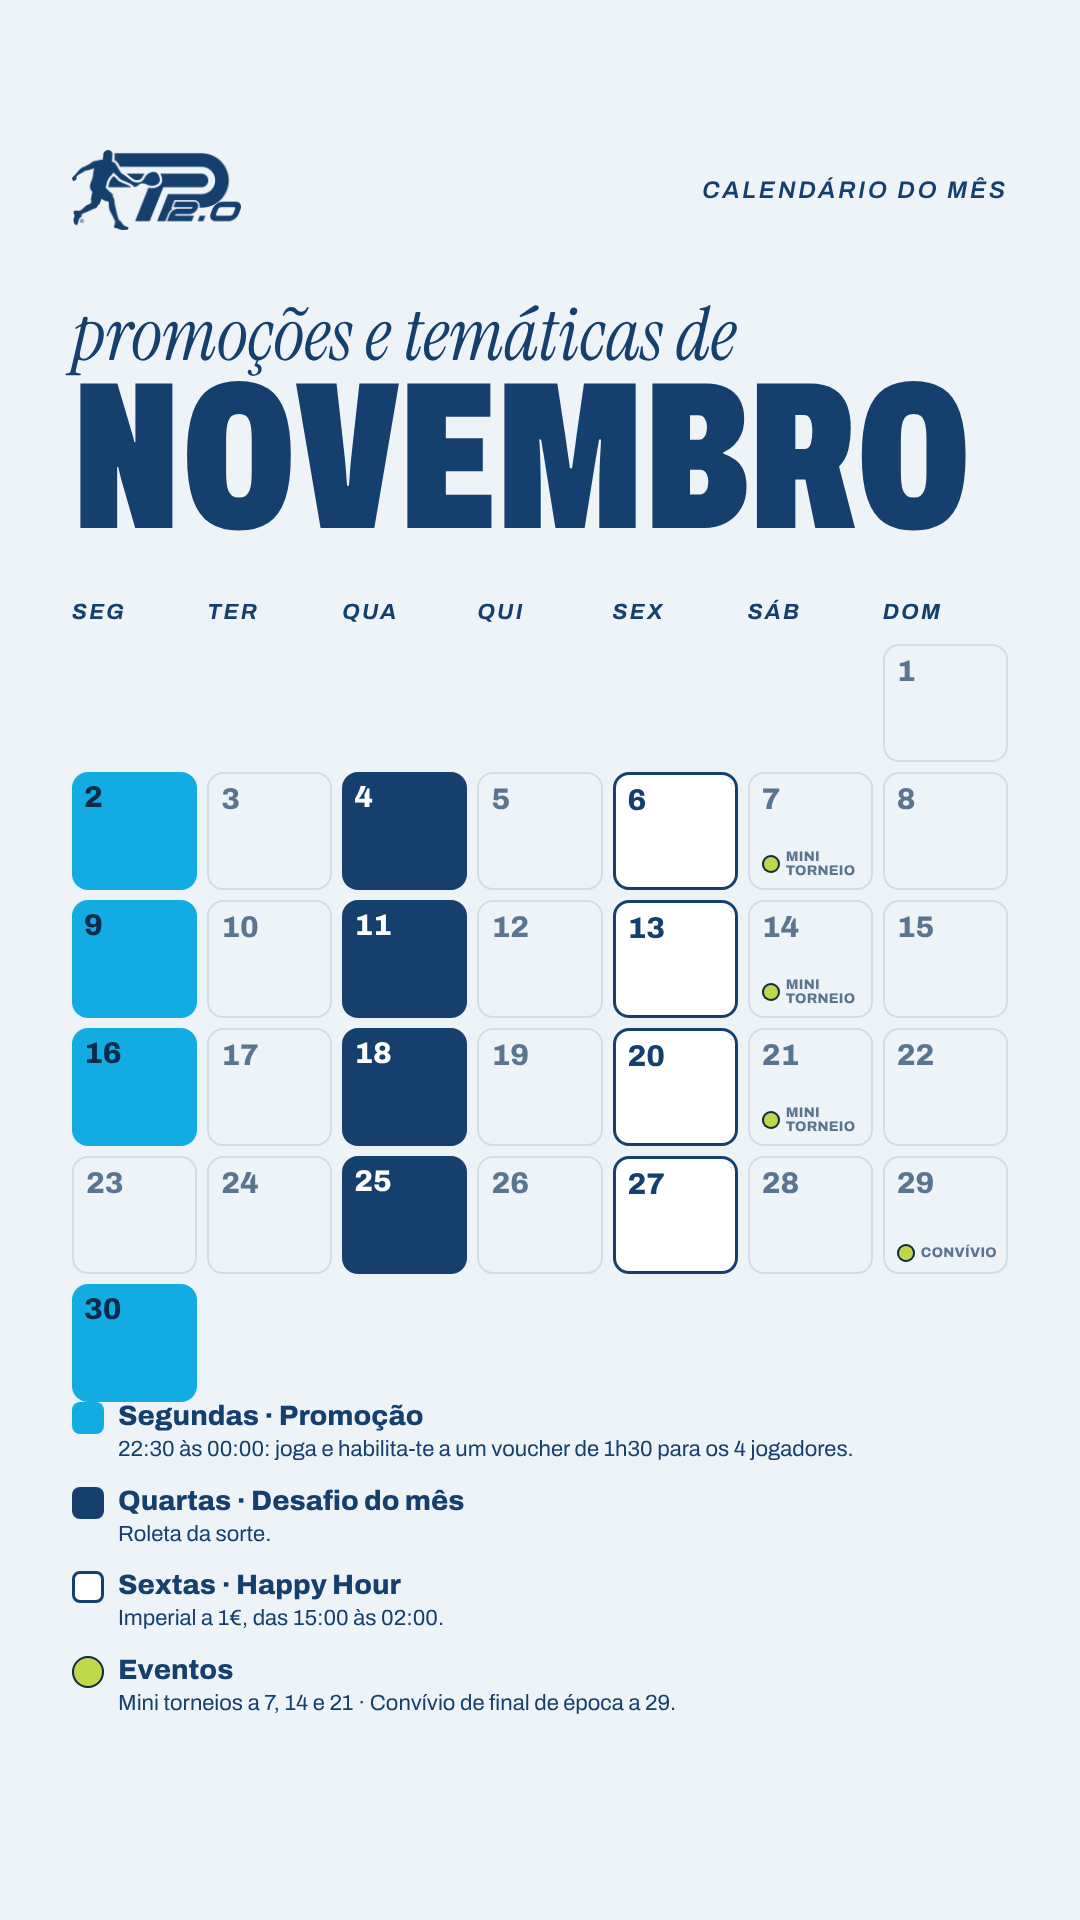
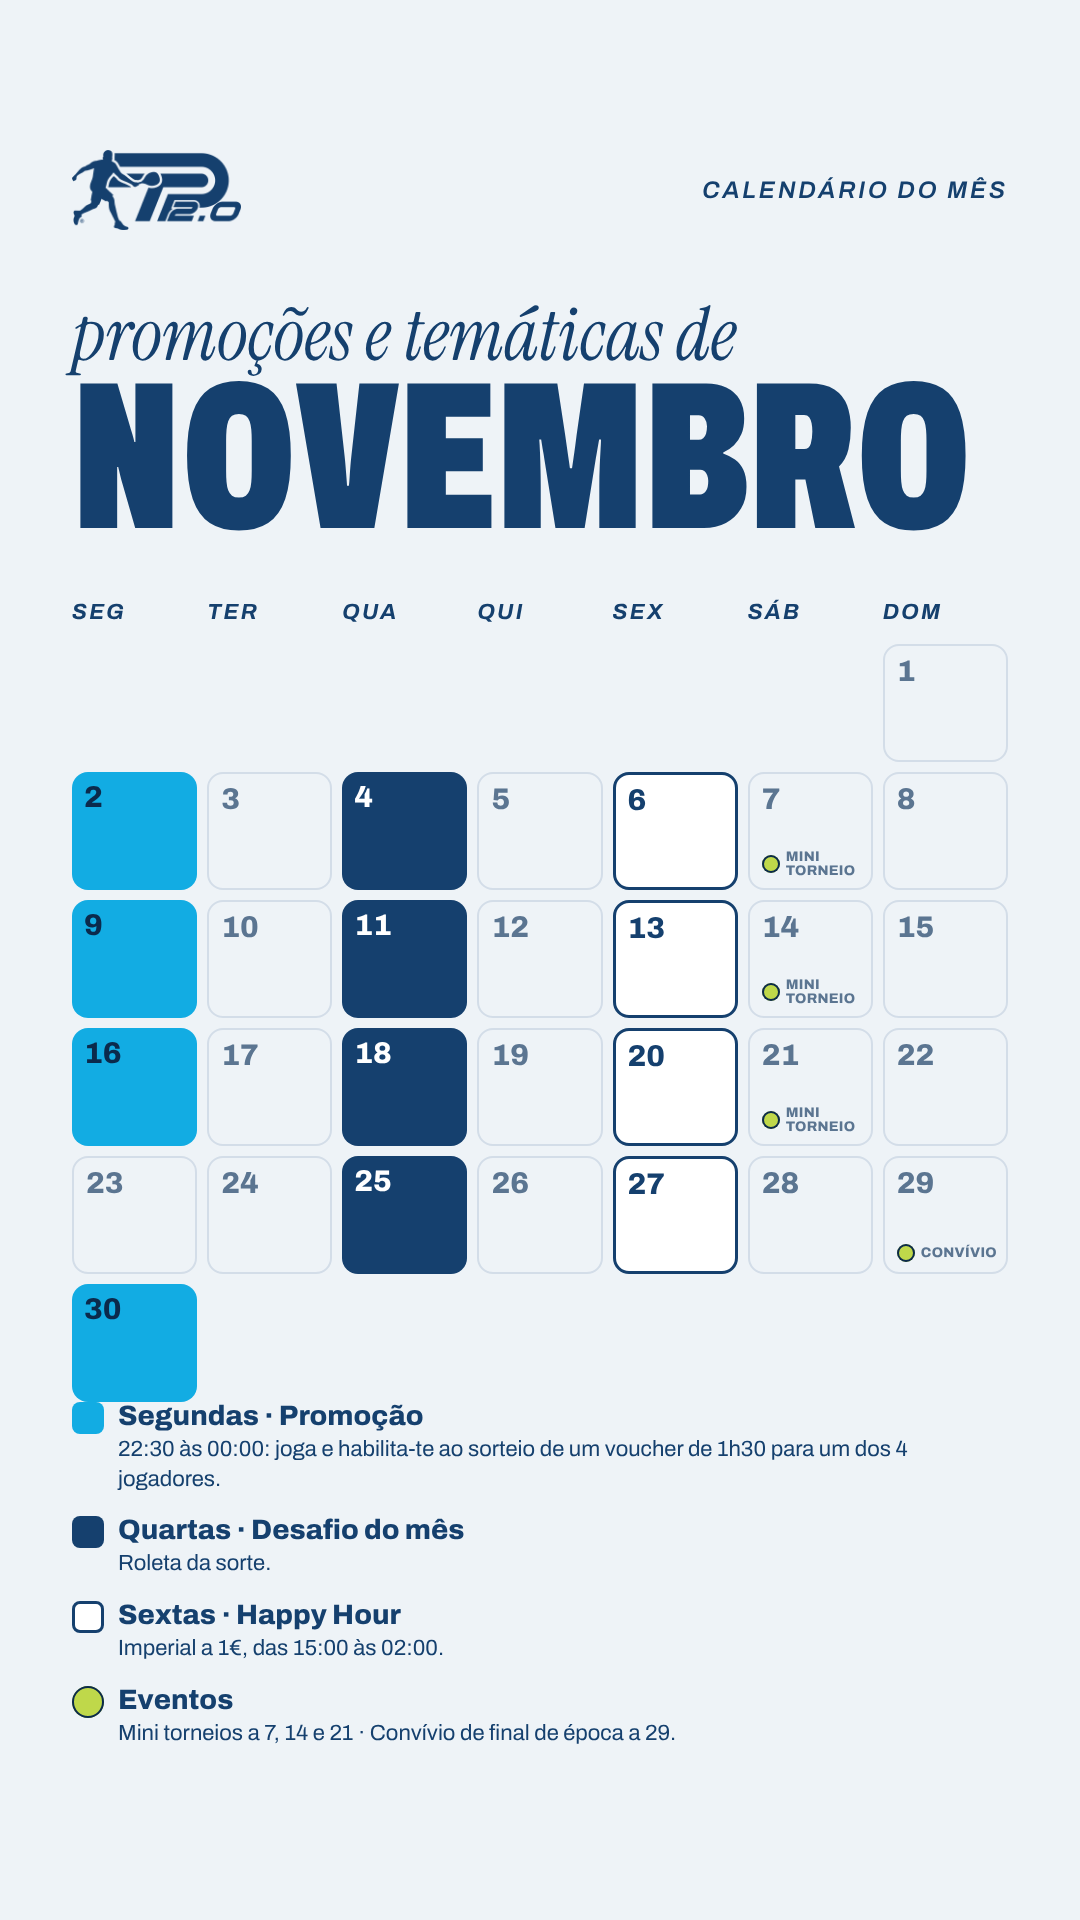
Corrige texto do voucher das segundas
Claude-Session: https://claude.ai/code/session_01YAkTQk1jS2UJe1ngAj8tnN

Changed region(s): [[0.0611, 0.75, 0.825, 0.9062]]

diff --git a/src/bk/gen/items.py b/src/bk/gen/items.py
@@ -22,7 +22,7 @@ Apenas 8 participantes por mini torneio, por isso garante já o teu lugar!
 #TomarPadel #Padel #MiniTorneio #Tomar #PadelPortugal""",
  "calendarios/tematicas-novembro-post.png":"""Todas as semanas há uma razão para vir ao TomarPadel 💙
 
-🎾 Segundas: reserva das 22:30 às 00:00 e habilita-te a ganhar um voucher de 1h30 para os 4 jogadores
+🎾 Segundas: reserva das 22:30 às 00:00 e habilita-te ao sorteio de um voucher de 1h30 para um dos 4 jogadores
 🎡 Quartas: Desafio do mês, a Roleta da Sorte!
 🍺 Sextas: Happy Hour, imperial a 1€ das 15:00 às 02:00
 
